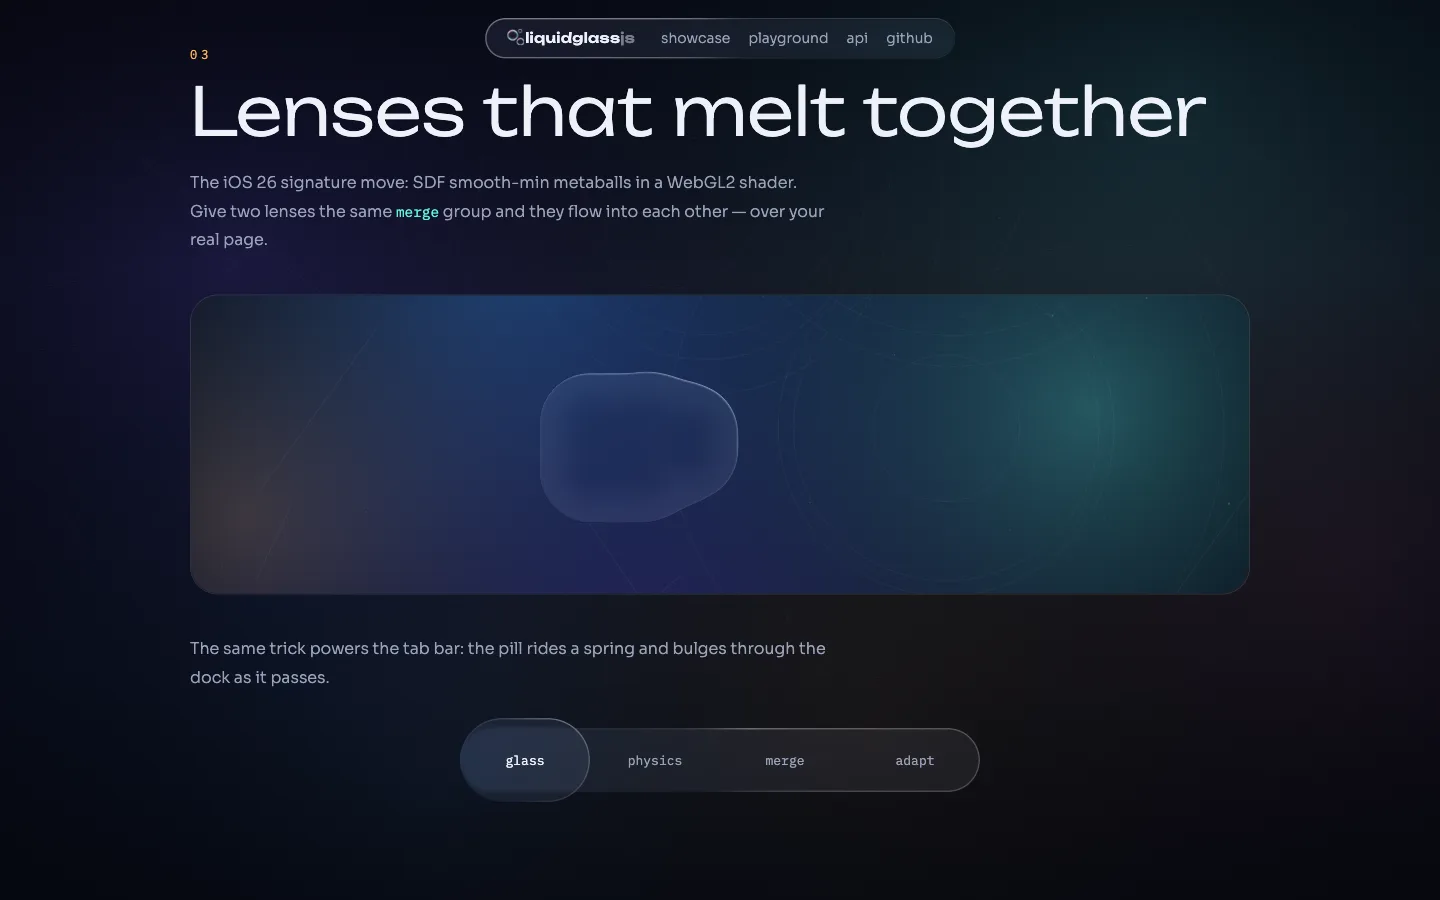
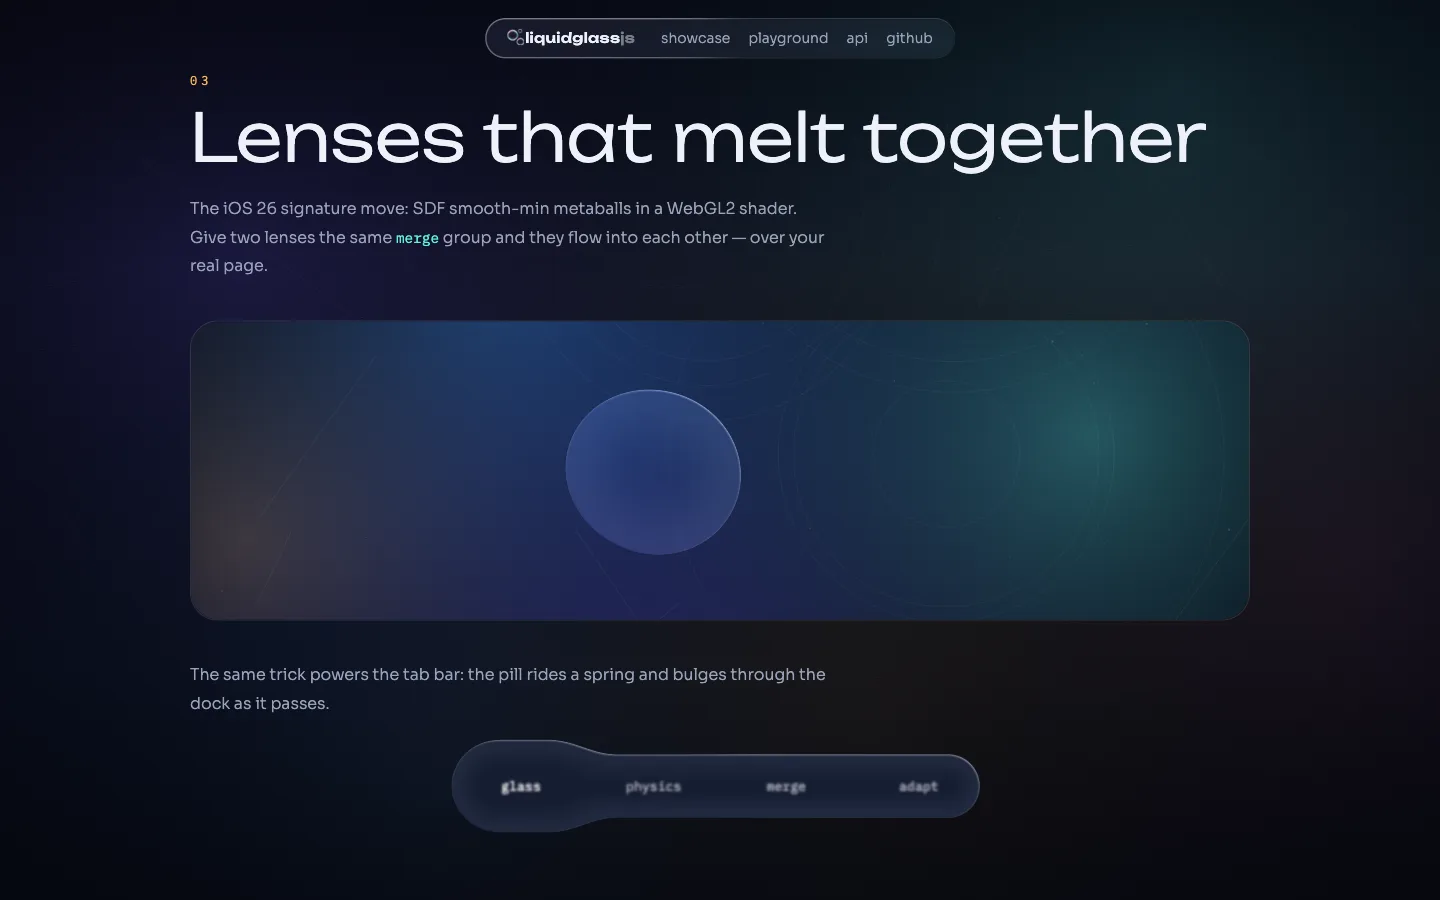
fix(gl): css radius units and corner clamp, tunable merge strength, snapshot ignore attribute

diff --git a/packages/core/test/displacement.test.ts b/packages/core/test/displacement.test.ts
@@ -1,5 +1,5 @@
 import { describe, expect, it } from 'vitest'
-import { computeOffsets, generateLensMap, sdfRoundedRect } from '../src/displacement'
+import { computeOffsets, generateLensMap, resolveRadiusPx, sdfRoundedRect } from '../src/displacement'
 
 describe('sdfRoundedRect', () => {
   it('is negative inside the shape', () => {
@@ -108,6 +108,36 @@ describe('computeOffsets (lens model)', () => {
   it('supports the squircle shape', () => {
     const [dx] = offsetAt({ ...base, shape: 'squircle' as never }, 2, 50)
     expect(dx).toBeLessThan(0)
+  })
+})
+
+describe('resolveRadiusPx', () => {
+  it('converts percentage border-radius against the min side', () => {
+    const el = document.createElement('div')
+    el.style.borderRadius = '50%'
+    document.body.appendChild(el)
+    expect(resolveRadiusPx('auto', el, 150, 150)).toBe(75)
+    expect(resolveRadiusPx('auto', el, 200, 100)).toBe(50)
+    el.remove()
+  })
+
+  it('clamps oversized radii to half the min side', () => {
+    const el = document.createElement('div')
+    el.style.borderRadius = '999px'
+    document.body.appendChild(el)
+    expect(resolveRadiusPx('auto', el, 130, 84)).toBe(42)
+    expect(resolveRadiusPx(999, el, 130, 84)).toBe(42)
+    el.remove()
+  })
+
+  it('parses pixel values and defaults to zero', () => {
+    const el = document.createElement('div')
+    el.style.borderRadius = '18px'
+    document.body.appendChild(el)
+    expect(resolveRadiusPx('auto', el, 240, 120)).toBe(18)
+    el.style.borderRadius = ''
+    expect(resolveRadiusPx('auto', el, 240, 120)).toBe(0)
+    el.remove()
   })
 })
 

diff --git a/packages/core/src/displacement.ts b/packages/core/src/displacement.ts
@@ -165,6 +165,29 @@ export interface LensMap {
   maxOffset: number
 }
 
+export function resolveRadiusPx(
+  radius: number | 'auto',
+  element: Element,
+  width: number,
+  height: number
+): number {
+  const half = Math.min(width, height) / 2
+  if (typeof radius === 'number') return Math.max(0, Math.min(radius, half))
+  if (
+    typeof HTMLElement !== 'undefined' &&
+    element instanceof HTMLElement &&
+    typeof getComputedStyle === 'function'
+  ) {
+    const raw = getComputedStyle(element).borderRadius.split(' ')[0] ?? ''
+    const parsed = parseFloat(raw)
+    if (Number.isFinite(parsed)) {
+      const px = raw.endsWith('%') ? (parsed / 100) * Math.min(width, height) : parsed
+      return Math.max(0, Math.min(px, half))
+    }
+  }
+  return 0
+}
+
 const MIN_AUTO_BAND = 12
 
 export function resolveBandPx(

diff --git a/packages/core/src/backends/webgl-scene.ts b/packages/core/src/backends/webgl-scene.ts
@@ -1,18 +1,10 @@
 import { colorWithOpacity } from '../color'
+import { resolveRadiusPx } from '../displacement'
 import { GlRenderer } from '../gl/renderer'
 import type { Backend, BackendInstance, BackendSurface } from './types'
 
 function isStyleable(element: Element): element is HTMLElement {
   return typeof HTMLElement !== 'undefined' && element instanceof HTMLElement
-}
-
-function effectiveRadius(surface: BackendSurface): number {
-  if (typeof surface.material.radius === 'number') return surface.material.radius
-  if (isStyleable(surface.element) && typeof getComputedStyle === 'function') {
-    const parsed = parseFloat(getComputedStyle(surface.element).borderRadius)
-    if (Number.isFinite(parsed)) return parsed
-  }
-  return 0
 }
 
 class WebglSceneInstance implements BackendInstance {
@@ -92,7 +84,14 @@ class WebglSceneInstance implements BackendInstance {
       [
         {
           quad,
-          shapes: [{ rect: quad, radius: effectiveRadius(surface) * dpr }],
+          shapes: [
+            {
+              rect: quad,
+              radius:
+                resolveRadiusPx(surface.material.radius, surface.element, hostBox.width, hostBox.height) *
+                dpr
+            }
+          ],
           material: surface.material,
           mergeK: 1
         }

diff --git a/packages/core/src/backends/webgl-overlay.ts b/packages/core/src/backends/webgl-overlay.ts
@@ -1,4 +1,5 @@
 import { colorWithOpacity } from '../color'
+import { resolveRadiusPx } from '../displacement'
 import { GlRenderer, MAX_SHAPES, unionRect, type GlDraw, type GlRect, type GlShape } from '../gl/renderer'
 import type { Backend, BackendInstance, BackendSurface } from './types'
 
@@ -9,15 +10,6 @@ const SNAPSHOT_DEBOUNCE_MS = 300
 
 function isStyleable(element: Element): element is HTMLElement {
   return typeof HTMLElement !== 'undefined' && element instanceof HTMLElement
-}
-
-function effectiveRadius(surface: BackendSurface): number {
-  if (typeof surface.material.radius === 'number') return surface.material.radius
-  if (isStyleable(surface.element) && typeof getComputedStyle === 'function') {
-    const parsed = parseFloat(getComputedStyle(surface.element).borderRadius)
-    if (Number.isFinite(parsed)) return parsed
-  }
-  return 0
 }
 
 function dpr(): number {
@@ -197,7 +189,9 @@ class OverlayManager {
         filter: node =>
           !(
             node instanceof Element &&
-            (node.hasAttribute('data-liquid-glass') || node.hasAttribute('data-liquid-glass-overlay'))
+            (node.hasAttribute('data-liquid-glass') ||
+              node.hasAttribute('data-liquid-glass-overlay') ||
+              node.hasAttribute('data-liquid-glass-ignore'))
           )
       })
       this.#renderer.setTexture(snapshot)
@@ -230,7 +224,7 @@ class OverlayManager {
           width: box.width,
           height: box.height
         },
-        radius: effectiveRadius(surface)
+        radius: resolveRadiusPx(surface.material.radius, surface.element, box.width, box.height)
       }
       if (surface.merge) {
         const key = surface.merge

diff --git a/packages/core/src/backends/css-svg.ts b/packages/core/src/backends/css-svg.ts
@@ -1,5 +1,5 @@
 import { colorWithOpacity } from '../color'
-import { generateLensMap, resolveBandPx, squircleClipPath } from '../displacement'
+import { generateLensMap, resolveBandPx, resolveRadiusPx, squircleClipPath } from '../displacement'
 import { buildLensChain } from './filter-chain'
 import type { LensChainNodes } from './filter-chain'
 import type { Backend, BackendInstance, BackendSurface } from './types'
@@ -27,15 +27,6 @@ function ensureDefs(): SVGDefsElement | null {
 
 function isStyleable(element: Element): element is HTMLElement {
   return typeof HTMLElement !== 'undefined' && element instanceof HTMLElement
-}
-
-function effectiveRadius(surface: BackendSurface): number {
-  if (typeof surface.material.radius === 'number') return surface.material.radius
-  if (isStyleable(surface.element) && typeof getComputedStyle === 'function') {
-    const parsed = parseFloat(getComputedStyle(surface.element).borderRadius)
-    if (Number.isFinite(parsed)) return parsed
-  }
-  return 0
 }
 
 function surfaceSize(surface: BackendSurface): { width: number; height: number } {
@@ -124,7 +115,7 @@ class CssSvgInstance implements BackendInstance {
         `${Math.round(Math.min(width, height) * 0.36)}px`
       )
     }
-    const radius = effectiveRadius(surface)
+    const radius = resolveRadiusPx(material.radius, surface.element, width, height)
     this.#band = resolveBandPx(material.bevelWidth, radius, width, height)
     const map = generateLensMap({
       width,

diff --git a/packages/core/src/backends/svg-content.ts b/packages/core/src/backends/svg-content.ts
@@ -1,5 +1,5 @@
 import { colorWithOpacity } from '../color'
-import { generateLensMap, resolveBandPx, squircleClipPath } from '../displacement'
+import { generateLensMap, resolveBandPx, resolveRadiusPx, squircleClipPath } from '../displacement'
 import { buildLensChain } from './filter-chain'
 import type { LensChainNodes } from './filter-chain'
 import type { Backend, BackendInstance, BackendSurface } from './types'
@@ -27,15 +27,6 @@ function ensureDefs(): SVGDefsElement | null {
 
 function isStyleable(element: Element): element is HTMLElement {
   return typeof HTMLElement !== 'undefined' && element instanceof HTMLElement
-}
-
-function effectiveRadius(surface: BackendSurface): number {
-  if (typeof surface.material.radius === 'number') return surface.material.radius
-  if (isStyleable(surface.element) && typeof getComputedStyle === 'function') {
-    const parsed = parseFloat(getComputedStyle(surface.element).borderRadius)
-    if (Number.isFinite(parsed)) return parsed
-  }
-  return 0
 }
 
 function surfaceSize(surface: BackendSurface): { width: number; height: number } {
@@ -251,7 +242,7 @@ class SvgContentInstance implements BackendInstance {
         `${Math.round(Math.min(width, height) * 0.36)}px`
       )
     }
-    const radius = effectiveRadius(surface)
+    const radius = resolveRadiusPx(material.radius, surface.element, width, height)
     this.#band = resolveBandPx(material.bevelWidth, radius, width, height)
     const map = generateLensMap({
       width,

diff --git a/apps/docs/index.html b/apps/docs/index.html
@@ -18,7 +18,7 @@
   </head>
   <body>
     <div class="wp" data-wall="aurora" data-wall-seed="7" aria-hidden="true"></div>
-    <div class="grain" aria-hidden="true"></div>
+    <div class="grain" data-liquid-glass-ignore aria-hidden="true"></div>
 
     <liquid-glass class="nav" preset="clear" physics="false" motion-light>
       <span class="nav-logo">🫧 liquidglass<span class="nav-logo-dim">js</span></span>
@@ -93,8 +93,8 @@
         </p>
         <div class="stage merge-stage">
           <div class="wall" data-wall="sea" data-wall-seed="3" aria-hidden="true"></div>
-          <liquid-glass class="m-blob m-blob-a" backend="webgl-overlay" merge="landing" preset="clear" physics="false"></liquid-glass>
-          <liquid-glass class="m-blob m-blob-b" backend="webgl-overlay" merge="landing" preset="clear" physics="false"></liquid-glass>
+          <liquid-glass class="m-blob m-blob-a" backend="webgl-overlay" merge="landing" merge-strength="64" preset="clear" ior="1.8" physics="false"></liquid-glass>
+          <liquid-glass class="m-blob m-blob-b" backend="webgl-overlay" merge="landing" merge-strength="64" preset="clear" ior="1.8" physics="false"></liquid-glass>
         </div>
         <p class="section-lead dock-lead">
           The same trick powers the tab bar: the pill rides a spring and bulges through the dock as it
@@ -102,8 +102,8 @@
         </p>
         <div class="dock-stage">
           <div class="dock">
-            <liquid-glass class="dock-bar" backend="webgl-overlay" merge="dock" preset="clear" physics="false"></liquid-glass>
-            <liquid-glass class="dock-pill" backend="webgl-overlay" merge="dock" preset="clear" physics="false"></liquid-glass>
+            <liquid-glass class="dock-bar" backend="webgl-overlay" merge="dock" merge-strength="36" preset="clear" physics="false"></liquid-glass>
+            <liquid-glass class="dock-pill" backend="webgl-overlay" merge="dock" merge-strength="36" preset="clear" physics="false"></liquid-glass>
             <nav class="dock-tabs">
               <button type="button" data-dock="0" class="active">glass</button>
               <button type="button" data-dock="1">physics</button>

diff --git a/packages/element/src/index.ts b/packages/element/src/index.ts
@@ -44,6 +44,7 @@ function createElementClass(): CustomElementConstructor {
       'scene-image',
       'physics',
       'merge',
+      'merge-strength',
       'shape',
       'ior',
       'magnify',
@@ -53,6 +54,7 @@ function createElementClass(): CustomElementConstructor {
     connectedCallback(): void {
       const ior = numberFrom(this.getAttribute('ior'))
       const magnify = numberFrom(this.getAttribute('magnify'))
+      const mergeStrength = numberFrom(this.getAttribute('merge-strength'))
       attach(this, {
         preset: presetFrom(this.getAttribute('preset')),
         backdrop: this.getAttribute('backdrop'),
@@ -63,6 +65,7 @@ function createElementClass(): CustomElementConstructor {
         shape: this.getAttribute('shape') === 'squircle' ? 'squircle' : 'rounded',
         ...(ior !== undefined ? { ior } : {}),
         ...(magnify !== undefined ? { magnify } : {}),
+        ...(mergeStrength !== undefined ? { mergeStrength } : {}),
         motionLight: this.hasAttribute('motion-light')
       })
     }
@@ -84,6 +87,10 @@ function createElementClass(): CustomElementConstructor {
       if (name === 'scene-image') instance.set({ sceneImage: value })
       if (name === 'physics') instance.set({ physics: physicsFrom(value) })
       if (name === 'merge') instance.set({ merge: value })
+      if (name === 'merge-strength') {
+        const mergeStrength = numberFrom(value)
+        if (mergeStrength !== undefined) instance.set({ mergeStrength })
+      }
       if (name === 'shape') instance.set({ shape: value === 'squircle' ? 'squircle' : 'rounded' })
       if (name === 'ior') {
         const ior = numberFrom(value)

diff --git a/apps/docs/src/style.css b/apps/docs/src/style.css
@@ -437,15 +437,16 @@ main {
 .dock-tabs button {
   background: none;
   border: 0;
-  color: var(--ink-dim);
+  color: rgba(238, 241, 249, 0.72);
   font-family: var(--mono);
   font-size: 13px;
   cursor: pointer;
+  text-shadow: 0 1px 8px rgba(4, 6, 12, 0.6);
   transition: color 0.3s ease;
 }
 
 .dock-tabs button.active {
-  color: var(--ink);
+  color: #fff;
 }
 
 .adaptive-grid {

diff --git a/packages/core/src/gl/renderer.ts b/packages/core/src/gl/renderer.ts
@@ -63,8 +63,9 @@ in vec2 v_local;
 out vec4 outColor;
 
 float sdBox(vec2 p, vec2 halfSize, float r) {
-  vec2 q = abs(p) - halfSize + r;
-  return length(max(q, 0.0)) + min(max(q.x, q.y), 0.0) - r;
+  float rr = min(r, min(halfSize.x, halfSize.y));
+  vec2 q = abs(p) - halfSize + rr;
+  return length(max(q, 0.0)) + min(max(q.x, q.y), 0.0) - rr;
 }
 
 float smin(float a, float b, float k) {

diff --git a/packages/core/test/renderer-shader.test.ts b/packages/core/test/renderer-shader.test.ts
@@ -17,4 +17,8 @@ describe('gl lens shader', () => {
     expect(FRAGMENT_SRC).toContain('u_magnify')
     expect(FRAGMENT_SRC).toContain('u_center')
   })
+
+  it('clamps the rounded-box corner radius to the half size', () => {
+    expect(FRAGMENT_SRC).toContain('min(r, min(halfSize.x, halfSize.y))')
+  })
 })